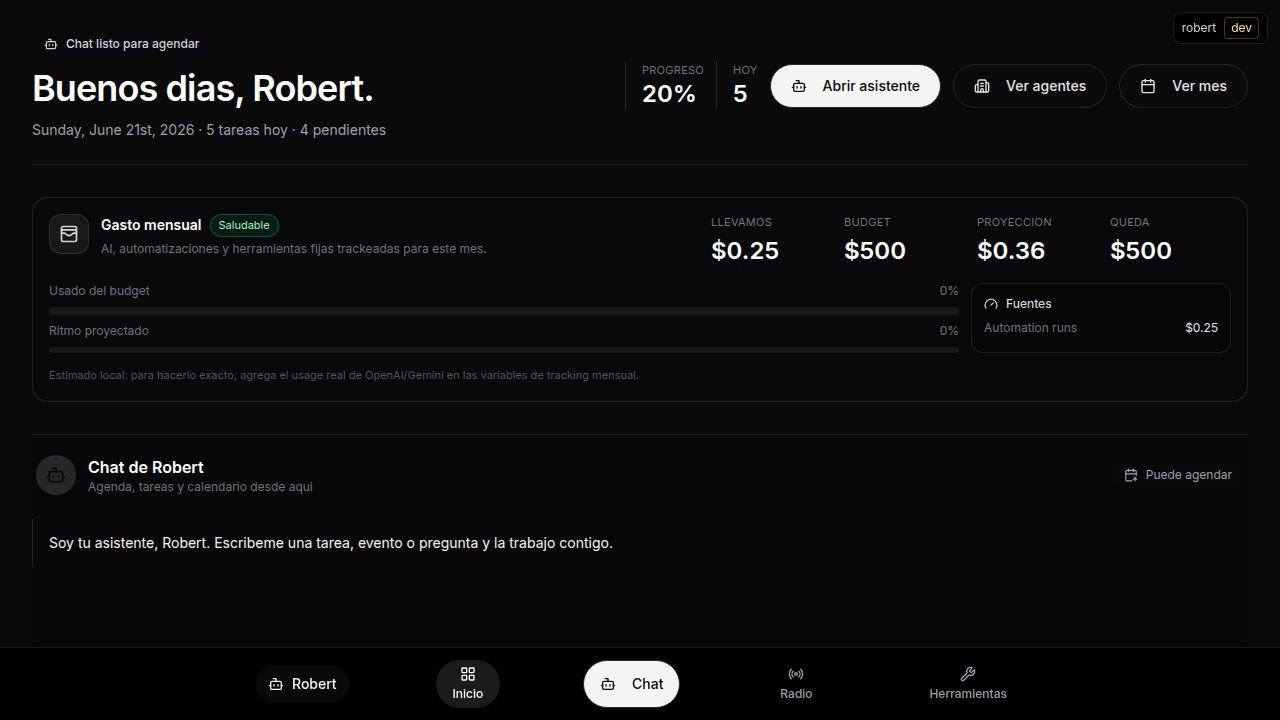
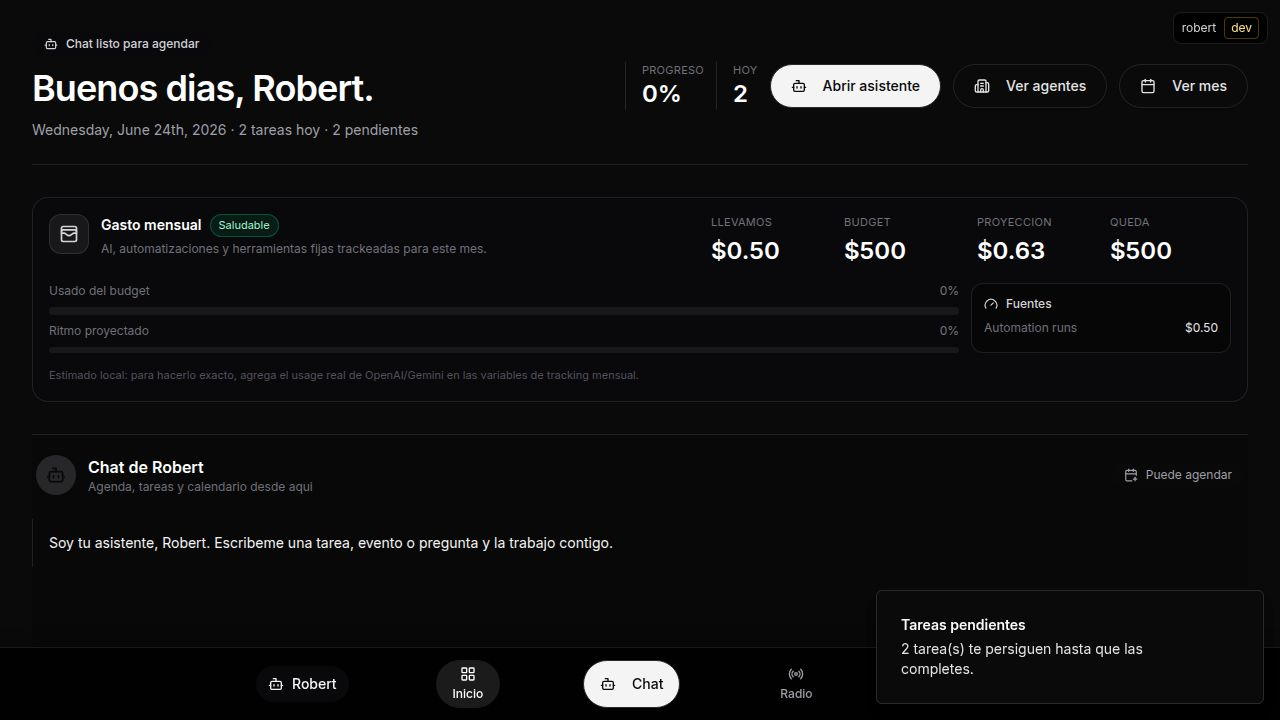
Improve task execution and error handling for YouTube video processing
Update error handling for YouTube video processing tasks, add Deno and Node.js 20 to Nix dependencies, and refine build commands.

Replit-Commit-Author: Agent
Replit-Commit-Session-Id: 8218b642-6ef4-43b1-bc01-c117ce68c2a3
Replit-Commit-Checkpoint-Type: full_checkpoint
Replit-Commit-Event-Id: 02bb8efb-5c6d-48a3-a877-d526249a97b9
Replit-Commit-Screenshot-Url: https://storage.googleapis.com/screenshot-production-us-central1/996097da-891f-490f-b35f-c02f361c4e34/8218b642-6ef4-43b1-bc01-c117ce68c2a3/722vfL3
Replit-Helium-Checkpoint-Created: true

diff --git a/server/radio-video-edit-agent.ts b/server/radio-video-edit-agent.ts
@@ -51,6 +51,7 @@ type RadioVideoJobInput = {
   driveFolderId?: string;
   driveFolderName?: string;
   driveFolderPath?: string[];
+  driveParentFolderId?: string;
   musicPath?: string;
   musicUrl?: string;
 };
@@ -817,6 +818,7 @@ async function createMissingDjNameAction(params: {
   driveFolderId?: string;
   driveFolderName?: string;
   driveFolderPath?: string[];
+  driveParentFolderId?: string;
   musicPath?: string;
   musicUrl?: string;
 }): Promise<string> {
@@ -847,6 +849,7 @@ async function createMissingDjNameAction(params: {
       driveFolderId: params.driveFolderId,
       driveFolderName: params.driveFolderName,
       driveFolderPath: params.driveFolderPath,
+      driveParentFolderId: params.driveParentFolderId,
       musicPath: params.musicPath,
       musicUrl: params.musicUrl,
     },
@@ -873,6 +876,7 @@ export async function processRadioVideo(params: {
   driveFolderId?: string;
   driveFolderName?: string;
   driveFolderPath?: string[];
+  driveParentFolderId?: string;
   musicPath?: string;
   musicUrl?: string;
 }): Promise<RadioVideoProcessResult> {
@@ -892,6 +896,7 @@ export async function processRadioVideo(params: {
         driveFolderId: params.driveFolderId,
         driveFolderName: params.driveFolderName,
         driveFolderPath: params.driveFolderPath,
+        driveParentFolderId: params.driveParentFolderId,
         musicPath: params.musicPath,
         musicUrl: params.musicUrl,
       });
@@ -910,6 +915,7 @@ export async function processRadioVideo(params: {
       driveFolderId: params.driveFolderId,
       driveFolderName: params.driveFolderName,
       driveFolderPath: params.driveFolderPath,
+      driveParentFolderId: params.driveParentFolderId,
       musicPath: params.musicPath,
       musicUrl: params.musicUrl,
     });
@@ -944,6 +950,7 @@ export async function processRadioVideos(options: {
   driveFolderId?: string;
   driveFolderName?: string;
   driveFolderPath?: string[];
+  driveParentFolderId?: string;
   musicPath?: string;
   musicUrl?: string;
 }): Promise<RadioVideoProcessResult[]> {
@@ -967,6 +974,7 @@ export async function processRadioVideos(options: {
       driveFolderId: options.driveFolderId,
       driveFolderName: options.driveFolderName,
       driveFolderPath: options.driveFolderPath,
+      driveParentFolderId: options.driveParentFolderId,
       musicPath: options.musicPath,
       musicUrl: options.musicUrl,
     }));
@@ -978,6 +986,7 @@ export async function createRadioYoutubeDriveFolderConfirmation(params: {
   userId: string;
   youtubeUrl: string;
   driveFolderPath: string[];
+  driveParentFolderId?: string;
   djName?: string;
   musicUrl?: string;
   origin?: "web" | "telegram" | "scheduler";
@@ -1007,6 +1016,7 @@ export async function createRadioYoutubeDriveFolderConfirmation(params: {
     input: {
       youtubeUrl: params.youtubeUrl,
       driveFolderPath: params.driveFolderPath,
+      driveParentFolderId: params.driveParentFolderId,
       createFolderIfMissing: true,
       djName: params.djName,
       musicUrl: params.musicUrl,
@@ -1014,6 +1024,7 @@ export async function createRadioYoutubeDriveFolderConfirmation(params: {
     proposedChanges: {
       youtubeUrl: params.youtubeUrl,
       driveFolderPath: params.driveFolderPath,
+      driveParentFolderId: params.driveParentFolderId,
       djName: params.djName,
       musicUrl: params.musicUrl,
       outputs: ["<DJ>_60s_horizontal_ig.mp4", "<DJ>_30s_vertical_tiktok.mp4"],
@@ -1030,6 +1041,7 @@ export async function processYoutubeRadioVideoLink(params: {
   userId: string;
   youtubeUrl: string;
   driveFolderPath: string[] | string;
+  driveParentFolderId?: string;
   createFolderIfMissing?: boolean;
   driveFolderPathFromYoutubeTitle?: boolean;
   sourceDir?: string;
@@ -1042,7 +1054,8 @@ export async function processYoutubeRadioVideoLink(params: {
   const driveFolderPath = Array.isArray(params.driveFolderPath)
     ? params.driveFolderPath.map((part) => part.trim()).filter(Boolean)
     : splitDriveFolderPath(params.driveFolderPath);
-  if (driveFolderPath.length === 0 && !params.driveFolderPathFromYoutubeTitle) {
+  const driveParentFolderId = params.driveParentFolderId || getConfiguredClippersDriveRootFolderId() || undefined;
+  if (driveFolderPath.length === 0 && !params.driveFolderPathFromYoutubeTitle && !driveParentFolderId) {
     throw new Error("Falta la carpeta de Google Drive donde guardar los clips.");
   }
 
@@ -1054,7 +1067,7 @@ export async function processYoutubeRadioVideoLink(params: {
     driveFolderPath.push(folderNameFromDownloadedYoutubeVideo(videoPath));
   }
 
-  const resolved = await resolveExistingDriveFolderId(driveFolderPath, params.userId);
+  const resolved = await resolveExistingDriveFolderId(driveFolderPath, params.userId, driveParentFolderId);
   if (resolved.ambiguousMatches?.length && !params.createFolderIfMissing) {
     return {
       youtubeUrl: params.youtubeUrl,
@@ -1073,6 +1086,7 @@ export async function processYoutubeRadioVideoLink(params: {
         userId: params.userId,
         youtubeUrl: params.youtubeUrl,
         driveFolderPath,
+        driveParentFolderId,
         djName: params.djName,
         musicUrl: params.musicUrl,
       });
@@ -1084,7 +1098,9 @@ export async function processYoutubeRadioVideoLink(params: {
         driveFolderPath,
       };
     }
-    driveFolderId = await ensureDriveFolderPath(driveFolderPath, params.userId);
+    driveFolderId = driveParentFolderId
+      ? await ensureDriveFolderPathUnderParent(driveFolderPath, driveParentFolderId, params.userId)
+      : await ensureDriveFolderPath(driveFolderPath, params.userId);
     driveFolderCreated = true;
   }
 
@@ -1102,6 +1118,7 @@ export async function processYoutubeRadioVideoLink(params: {
     driveFolderId,
     driveFolderName: driveFolderPath.join("/"),
     driveFolderPath,
+    driveParentFolderId,
     musicPath,
     musicUrl: params.musicUrl,
   });

diff --git a/tests/assistant-chat-flow.test.ts b/tests/assistant-chat-flow.test.ts
@@ -66,6 +66,18 @@ test("web assistant prioritizes YouTube clip requests before Developer Autopilot
   assert.doesNotMatch(direct.content, /repo de GitHub/);
 });
 
+test("web assistant treats typoed Drive YouTube clip requests as local radio clip jobs", () => {
+  const direct = buildDirectRadioYoutubeCommand(
+    "https://youtu.be/GcVZvXkz2jU , quiero que saques los clips de instagram y de TikTok y los guardes en la carte de drives"
+  );
+
+  assert.ok(direct);
+  assert.match(direct.content, /Voy a descargar ese YouTube/);
+  assert.match(direct.command, /RADIO_YOUTUBE_CLIPS/);
+  assert.deepEqual(direct.driveFolderPath, ["Videos creados"]);
+  assert.equal(direct.createFolderIfMissing, true);
+});
+
 test("web assistant routes Metricool posting requests into approval-gated automation", () => {
   const source = readFileSync("server/assistant.ts", "utf8");
   const executor = readFileSync("server/trust-executor.ts", "utf8");
@@ -139,7 +151,9 @@ test("BlackOps chat enforces cheap-first AI cost policy", () => {
 
 test("AI router sends low-risk work to cheap scout and risky work to strong supervisor", () => {
   const previousKey = process.env.AI_INTEGRATIONS_GEMINI_API_KEY;
+  const previousCheapScoutEnabled = process.env.BLACKOPS_WEB_CHEAP_SCOUT_ENABLED;
   process.env.AI_INTEGRATIONS_GEMINI_API_KEY = "test-gemini-key";
+  process.env.BLACKOPS_WEB_CHEAP_SCOUT_ENABLED = "true";
 
   try {
     assert.equal(
@@ -173,6 +187,8 @@ test("AI router sends low-risk work to cheap scout and risky work to strong supe
   } finally {
     if (previousKey === undefined) delete process.env.AI_INTEGRATIONS_GEMINI_API_KEY;
     else process.env.AI_INTEGRATIONS_GEMINI_API_KEY = previousKey;
+    if (previousCheapScoutEnabled === undefined) delete process.env.BLACKOPS_WEB_CHEAP_SCOUT_ENABLED;
+    else process.env.BLACKOPS_WEB_CHEAP_SCOUT_ENABLED = previousCheapScoutEnabled;
   }
 });
 
@@ -288,6 +304,25 @@ test("dashboard assistant chat shows Black Room approval creation errors", () =>
 
   assert.match(source, /data\.blackRoomLinkError/);
   assert.match(source, /No pude completar la accion/);
+});
+
+test("assistant chats surface radio YouTube execution errors", () => {
+  const dashboardChat = readFileSync("client/src/components/dashboard-assistant-chat.tsx", "utf8");
+  const assistantPage = readFileSync("client/src/pages/assistant.tsx", "utf8");
+  const webAssistant = readFileSync("server/assistant.ts", "utf8");
+
+  assert.match(dashboardChat, /data\.radioYoutubeError/);
+  assert.match(dashboardChat, /data\.actionExecutionError/);
+  assert.match(assistantPage, /data\.radioYoutubeError/);
+  assert.match(assistantPage, /data\.actionExecutionError/);
+  assert.match(webAssistant, /actionExecutionError/);
+});
+
+test("radio YouTube approval executor fails failed processor results", () => {
+  const executor = readFileSync("server/trust-executor.ts", "utf8");
+
+  assert.match(executor, /radioYoutubeResult\.status === "failed"/);
+  assert.match(executor, /No pude procesar el link de YouTube para radio/);
 });
 
 test("web assistant only auto-executes after explicit chat approval", () => {

diff --git a/client/src/pages/assistant.tsx b/client/src/pages/assistant.tsx
@@ -381,8 +381,8 @@ export default function AssistantPage() {
                   return updated;
                 });
               }
-              if (data.googleEventError || data.radioError || data.radioYoutubeError || data.blackRoomLinkError || data.promoVideoError || data.metricoolAutomationError) {
-                assistantMessage += `\n\nNo pude completar la accion: ${data.googleEventError || data.radioError || data.radioYoutubeError || data.blackRoomLinkError || data.promoVideoError || data.metricoolAutomationError}`;
+              if (data.googleEventError || data.radioError || data.radioYoutubeError || data.blackRoomLinkError || data.promoVideoError || data.metricoolAutomationError || data.actionExecutionError) {
+                assistantMessage += `\n\nNo pude completar la accion: ${data.googleEventError || data.radioError || data.radioYoutubeError || data.blackRoomLinkError || data.promoVideoError || data.metricoolAutomationError || data.actionExecutionError}`;
                 setMessages((prev) => {
                   const updated = [...prev];
                   updated[updated.length - 1] = {

diff --git a/client/src/components/dashboard-assistant-chat.tsx b/client/src/components/dashboard-assistant-chat.tsx
@@ -144,8 +144,8 @@ export function DashboardAssistantChat() {
                 return next;
               });
             }
-            if (data.googleEventError || data.radioError || data.radioYoutubeError || data.blackRoomLinkError || data.metricoolAutomationError) {
-              assistantMessage += `\n\nNo pude completar la accion: ${data.googleEventError || data.radioError || data.radioYoutubeError || data.blackRoomLinkError || data.metricoolAutomationError}`;
+            if (data.googleEventError || data.radioError || data.radioYoutubeError || data.blackRoomLinkError || data.metricoolAutomationError || data.actionExecutionError) {
+              assistantMessage += `\n\nNo pude completar la accion: ${data.googleEventError || data.radioError || data.radioYoutubeError || data.blackRoomLinkError || data.metricoolAutomationError || data.actionExecutionError}`;
               setMessages((prev) => {
                 const next = [...prev];
                 next[next.length - 1] = {

diff --git a/.agents/memory/MEMORY.md b/.agents/memory/MEMORY.md
@@ -1,2 +1,2 @@
-- [PR15 deploy](pr15-deploy.md) — server-only build avoids Vite hang; YouTube routing before Developer Autopilot confirmed in prod at 9:57AM deploy.
-- [Drive OAuth autoscale](drive-oauth-autoscale.md) — MemoryStore sessions lost between autoscale containers; Drive token not shared; execution fails fast (~1.5s) as blackRoomLinkError (SSE, not server logs).
+- [Build command migration](build-cmd-migration.md) — deployment build is ["npm","run","build"] (script/build.ts), not script/build-server.js (deleted)
+- [git-fetch-blocked](git-fetch-blocked.md) — git fetch/destructive ops blocked in main agent; use project_tasks for fetching new remote commits
